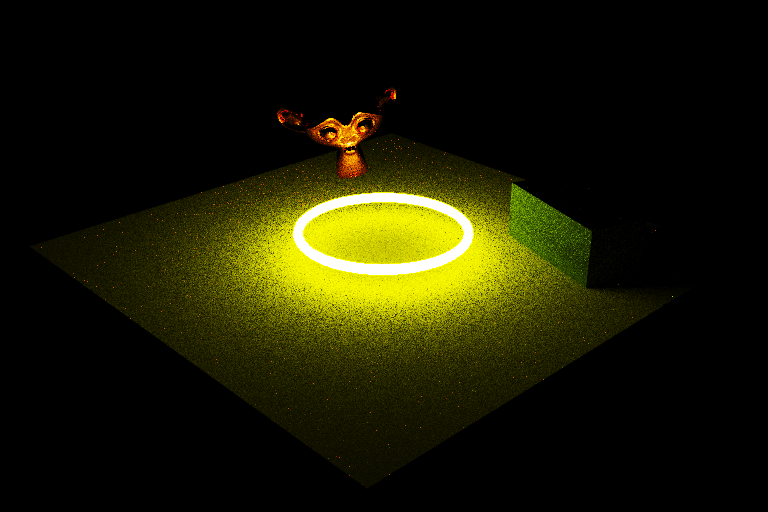
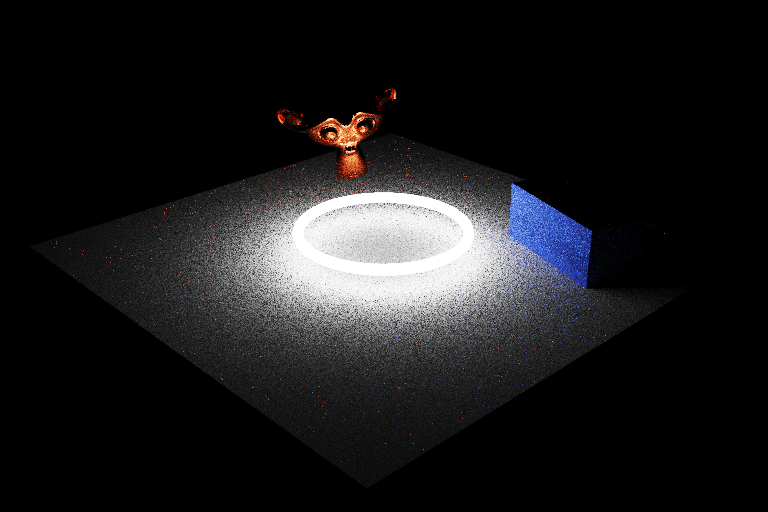
Fixed UB (unitialized background color)

Changed region(s): [[0.0938, 0.2188, 0.8438, 0.8438]]

diff --git a/source/scene.cpp b/source/scene.cpp
@@ -194,6 +194,7 @@ Scene Scene::fromGltf(std::string path, int width, int height, int samples) {
     scene.m_height = height;
     scene.m_samples = samples;
     scene.m_max_ray_depth = DEFAULT_RAY_DEPTH;
+    scene.m_background_color = glm::vec3(0.f);
 
     NodeList node_list(readArray(document, "nodes"));
     ConstJsonArray cameras = readArray(document, "cameras");
@@ -421,7 +422,8 @@ glm::vec3 Scene::raytrace(Ray ray, pcg32_random_t &rng, int depth) const
         return result;
     }
     case (MaterialType::METALLIC):
-        return triangle.emission + raytrace(reflected_ray, rng, depth + 1) * triangle.color;
+        glm::vec3 result = triangle.emission + raytrace(reflected_ray, rng, depth + 1) * triangle.color;
+        return result;
     }
     throw std::runtime_error("Unsupported type of material");
 }
